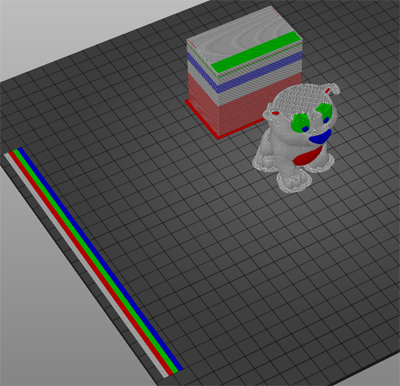
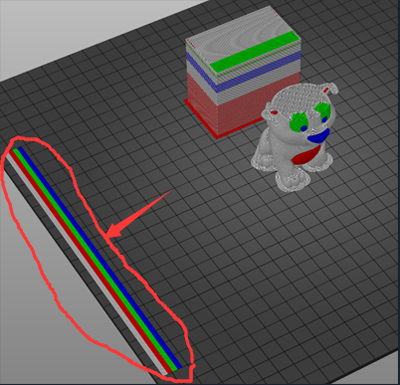
updata readme

diff --git a/PrusaSlicer/Custom_Gcode.md b/PrusaSlicer/Custom_Gcode.md
@@ -1,31 +1,3 @@
-<!-- ### :globe_with_meridians: Choose Language (Translated by google)
-[![](../lanpic/ES.png)](https://github-com.translate.goog/ZONESTAR3D/Slicing-Guid?_x_tr_sl=en&_x_tr_tl=es)
-[![](../lanpic/PT.png)](https://github-com.translate.goog/ZONESTAR3D/Slicing-Guid?_x_tr_sl=en&_x_tr_tl=pt)
-[![](../lanpic/FR.png)](https://github-com.translate.goog/ZONESTAR3D/Slicing-Guide?_x_tr_sl=en&_x_tr_tl=fr)
-[![](../lanpic/DE.png)](https://github-com.translate.goog/ZONESTAR3D/Slicing-Guide?_x_tr_sl=en&_x_tr_tl=de)
-[![](../lanpic/IT.png)](https://github-com.translate.goog/ZONESTAR3D/Slicing-Guide?_x_tr_sl=en&_x_tr_tl=it)
-[![](../lanpic/SW.png)](https://github-com.translate.goog/ZONESTAR3D/Slicing-Guide?_x_tr_sl=en&_x_tr_tl=sv)
-[![](../lanpic/PL.png)](https://github-com.translate.goog/ZONESTAR3D/Slicing-Guide?_x_tr_sl=en&_x_tr_tl=pl)
-[![](../lanpic/DK.png)](https://github-com.translate.goog/ZONESTAR3D/Slicing-Guide?_x_tr_sl=en&_x_tr_tl=da)
-[![](../lanpic/CZ.png)](https://github-com.translate.goog/ZONESTAR3D/Slicing-Guide?_x_tr_sl=en&_x_tr_tl=cs)
-[![](../lanpic/HR.png)](https://github-com.translate.goog/ZONESTAR3D/Slicing-Guide?_x_tr_sl=en&_x_tr_tl=hr)
-[![](../lanpic/RO.png)](https://github-com.translate.goog/ZONESTAR3D/Slicing-Guide?_x_tr_sl=en&_x_tr_tl=ro)
-[![](../lanpic/SK.png)](https://github-com.translate.goog/ZONESTAR3D/Slicing-Guide?_x_tr_sl=en&_x_tr_tl=sk)
-
-[![](../lanpic/RU.png)](https://github-com.translate.goog/ZONESTAR3D/Slicing-Guide?_x_tr_sl=en&_x_tr_tl=ru)
-[![](../lanpic/JP.png)](https://github-com.translate.goog/ZONESTAR3D/Slicing-Guide?_x_tr_sl=en&_x_tr_tl=ja)
-[![](../lanpic/KR.png)](https://github-com.translate.goog/ZONESTAR3D/Slicing-Guide?_x_tr_sl=en&_x_tr_tl=ko)
-[![](../lanpic/ID.png)](https://github-com.translate.goog/ZONESTAR3D/Slicing-Guide?_x_tr_sl=en&_x_tr_tl=id)
-[![](../lanpic/TH.png)](https://github-com.translate.goog/ZONESTAR3D/Slicing-Guide?_x_tr_sl=en&_x_tr_tl=th)
-[![](../lanpic/VN.png)](https://github-com.translate.goog/ZONESTAR3D/Slicing-Guide?_x_tr_sl=en&_x_tr_tl=vi)
-[![](../lanpic/IL.png)](https://github-com.translate.goog/ZONESTAR3D/Slicing-Guide?_x_tr_sl=en&_x_tr_tl=iw)
-[![](../lanpic/SA.png)](https://github-com.translate.goog/ZONESTAR3D/Slicing-Guide?_x_tr_sl=en&_x_tr_tl=ar)
-[![](../lanpic/TR.png)](https://github-com.translate.goog/ZONESTAR3D/Slicing-Guide?_x_tr_sl=en&_x_tr_tl=tr)
-[![](../lanpic/GR.png)](https://github-com.translate.goog/ZONESTAR3D/Slicing-Guide?_x_tr_sl=en&_x_tr_tl=el)
-[![](../lanpic/BR.png)](https://github-com.translate.goog/ZONESTAR3D/Slicing-Guide?_x_tr_sl=en&_x_tr_tl=pt)
-[![](../lanpic/CN.png)](https://github-com.translate.goog/ZONESTAR3D/Slicing-Guide?_x_tr_sl=en&_x_tr_tl=zh-CN)
-
------ -->
 ## Description of Custom G-code 
 ### Contents
 - [**Start G-code**](#start-g-code)
@@ -130,6 +102,8 @@ The "start G-code" include two parts,
     G4 P100
     ;M300 S4000 P200
     ;===Pre-load filament end
+
+![](pic/slicingE4-3.png)  
 
 -----
 ### End G-code

diff --git a/PrusaSlicer/PrusaSlicerGuide_E4.md b/PrusaSlicer/PrusaSlicerGuide_E4.md
@@ -44,7 +44,7 @@ In order to obtain better cleaning effect and minimize to waste filament, we can
 ![](pic/slicing_go.png)  
 ### Step 9: Preview the sliced result (gcode file) and then save to gcode file to your PC and then copy to SD card
 ![](pic/slicing_save.png)  
-:star:When previewing the gcode file, you can see that some additional print lines will appear on the side of bed, which are for preloading filaments. For detail how to pre-load filament, please refer to [**:book: E4 Hotend user guide**](https://github.com/ZONESTAR3D/Upgrade-kit-guide/tree/main/HOTEND/E4%204-IN-1-OUT%20Non-Mixing%20Color%20Hotend/User_guide/readme.md).   
+:star:When previewing the gcode file, you can see that some additional print lines will appear on the side of bed, which are for preloading filaments. For detail how to pre-load filament, please refer to [**:book: E4 Hotend user guide**](https://github.com/ZONESTAR3D/Upgrade-kit-guide/tree/main/HOTEND/E4/User_guide/readme.md).   
 ![](pic/slicingE4-3.png)  
 
 
@@ -54,7 +54,7 @@ In order to obtain better cleaning effect and minimize to waste filament, we can
 If you have correctly installed the Profiles file of the ZONESTAR 3d printer, you will see that we have added some gcode codes in ***"Printer Setting>>Custom G-code"***.  
 For details about the "Custom G-code", please refer to [:book: **Description of Custom Gcode**](./Custom_Gcode.md)
 ![](./pic/Custom_Gcode.jpg)
-### [:book: E4 hot end use guide](https://github.com/ZONESTAR3D/Upgrade-kit-guide/tree/main/HOTEND/E4%204-IN-1-OUT%20Non-Mixing%20Color%20Hotend)
+### [:book: E4 hot end use guide](https://github.com/ZONESTAR3D/Upgrade-kit-guide/tree/main/HOTEND/E4)
 ### [:arrow_down:Test gcode files for E4 hot end](https://github.com/ZONESTAR3D/Slicing-Guide/tree/master/PrusaSlicer/test_gcode/E4/readme.md)
  
   
